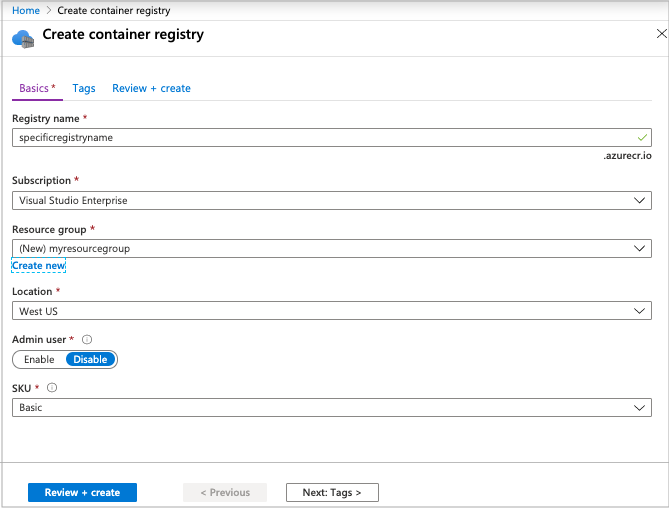
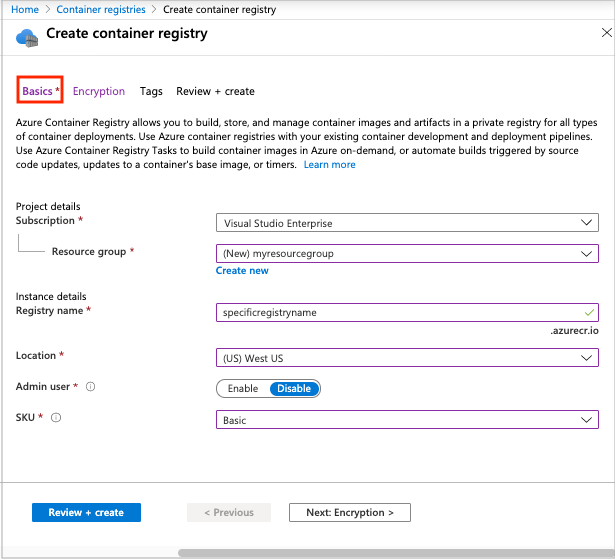
updated screenshot

diff --git a/articles/container-registry/container-registry-get-started-portal.md b/articles/container-registry/container-registry-get-started-portal.md
@@ -2,7 +2,7 @@
 title: Quickstart - Create registry in portal
 description: Quickly learn to create a private Docker registry in Azure Container Registry with the Azure portal.
 ms.topic: quickstart
-ms.date: 02/13/2020
+ms.date: 03/03/2020
 ms.custom: "seodec18, mvc"
 ---
 # Quickstart: Create a private container registry using the Azure portal
@@ -23,12 +23,11 @@ Select **Create a resource** > **Containers** > **Container Registry**.
 
 ![Creating a container registry in the Azure portal][qs-portal-01]
 
-On the **Basics** screen, enter values for **Registry name** and **Resource group**. The registry name must be unique within Azure, and contain 5-50 alphanumeric characters. For this quickstart create a new resource group in the `West US` location named `myResourceGroup`, and for **SKU**, select 'Basic'. 
+In the **Basics** tab, enter values for **Resource group** and **Registry name**. The registry name must be unique within Azure, and contain 5-50 alphanumeric characters. For this quickstart create a new resource group in the `West US` location named `myResourceGroup`, and for **SKU**, select 'Basic'. 
 
 ![Create container registry in the Azure portal][qs-portal-03]
 
 Accept default values for the remaining settings. Then select **Review + create**. After reviewing the settings, select **Create**.
-
 
 In this quickstart you create a *Basic* registry, which is a cost-optimized option for developers learning about Azure Container Registry. For details on available service tiers, see [Container registry SKUs][container-registry-skus].
 
